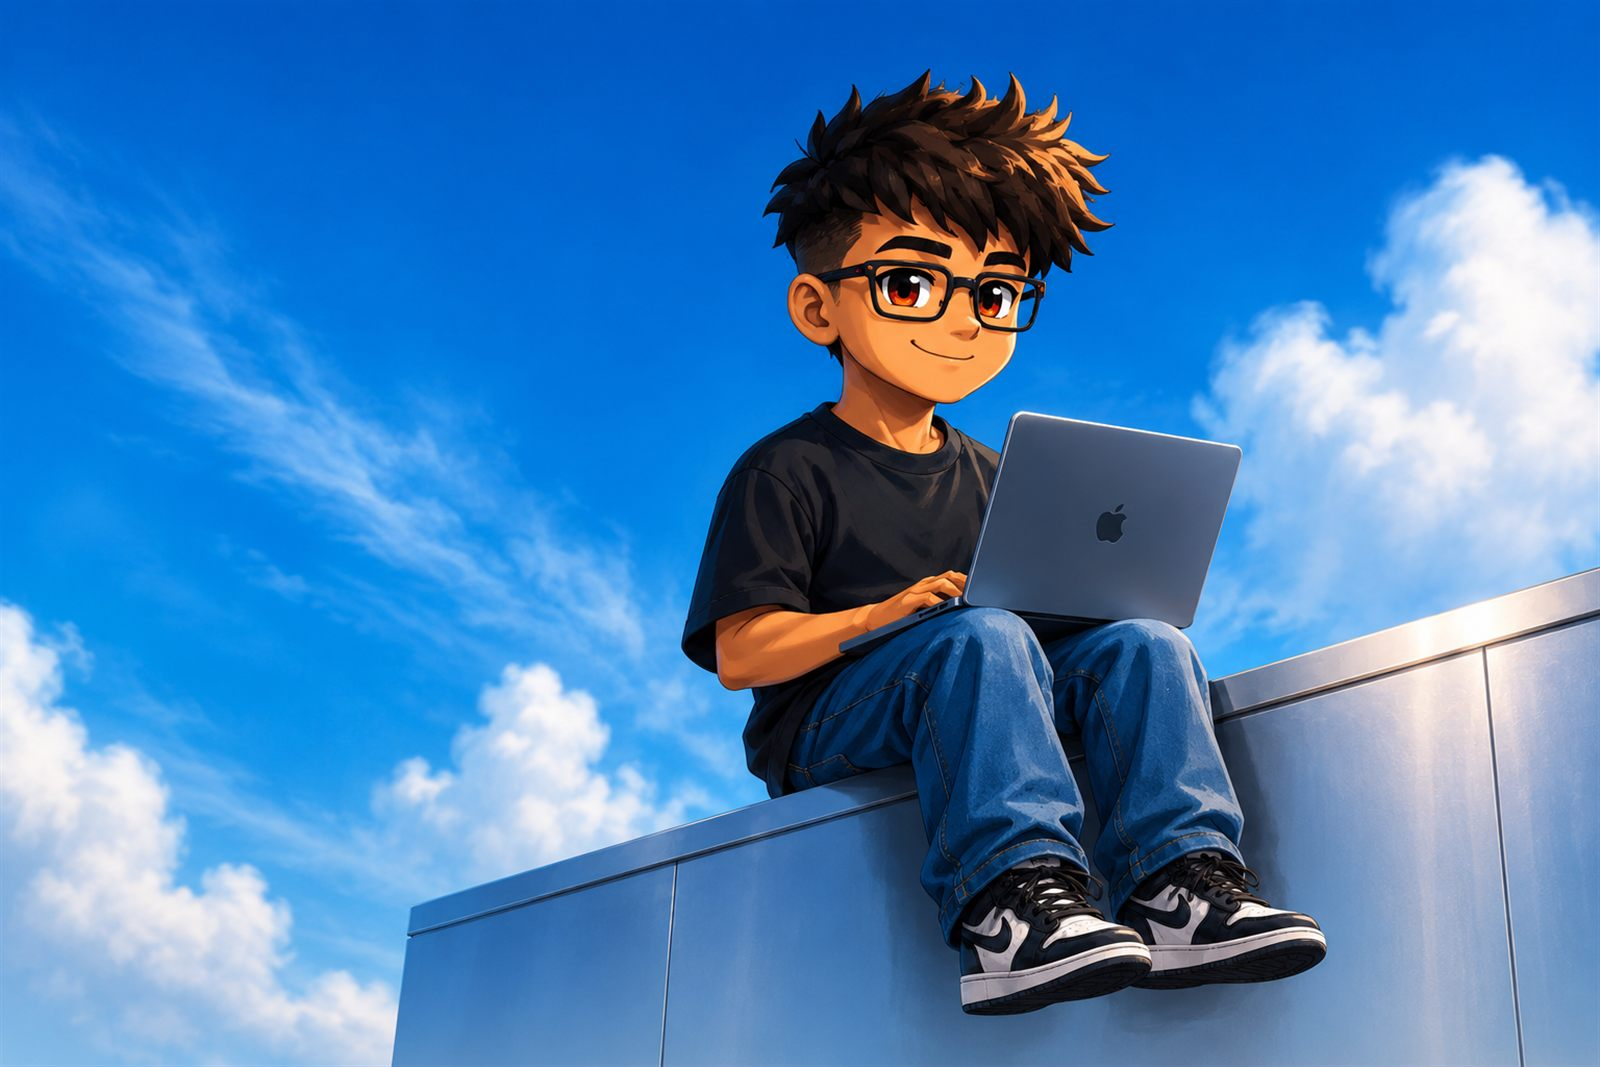
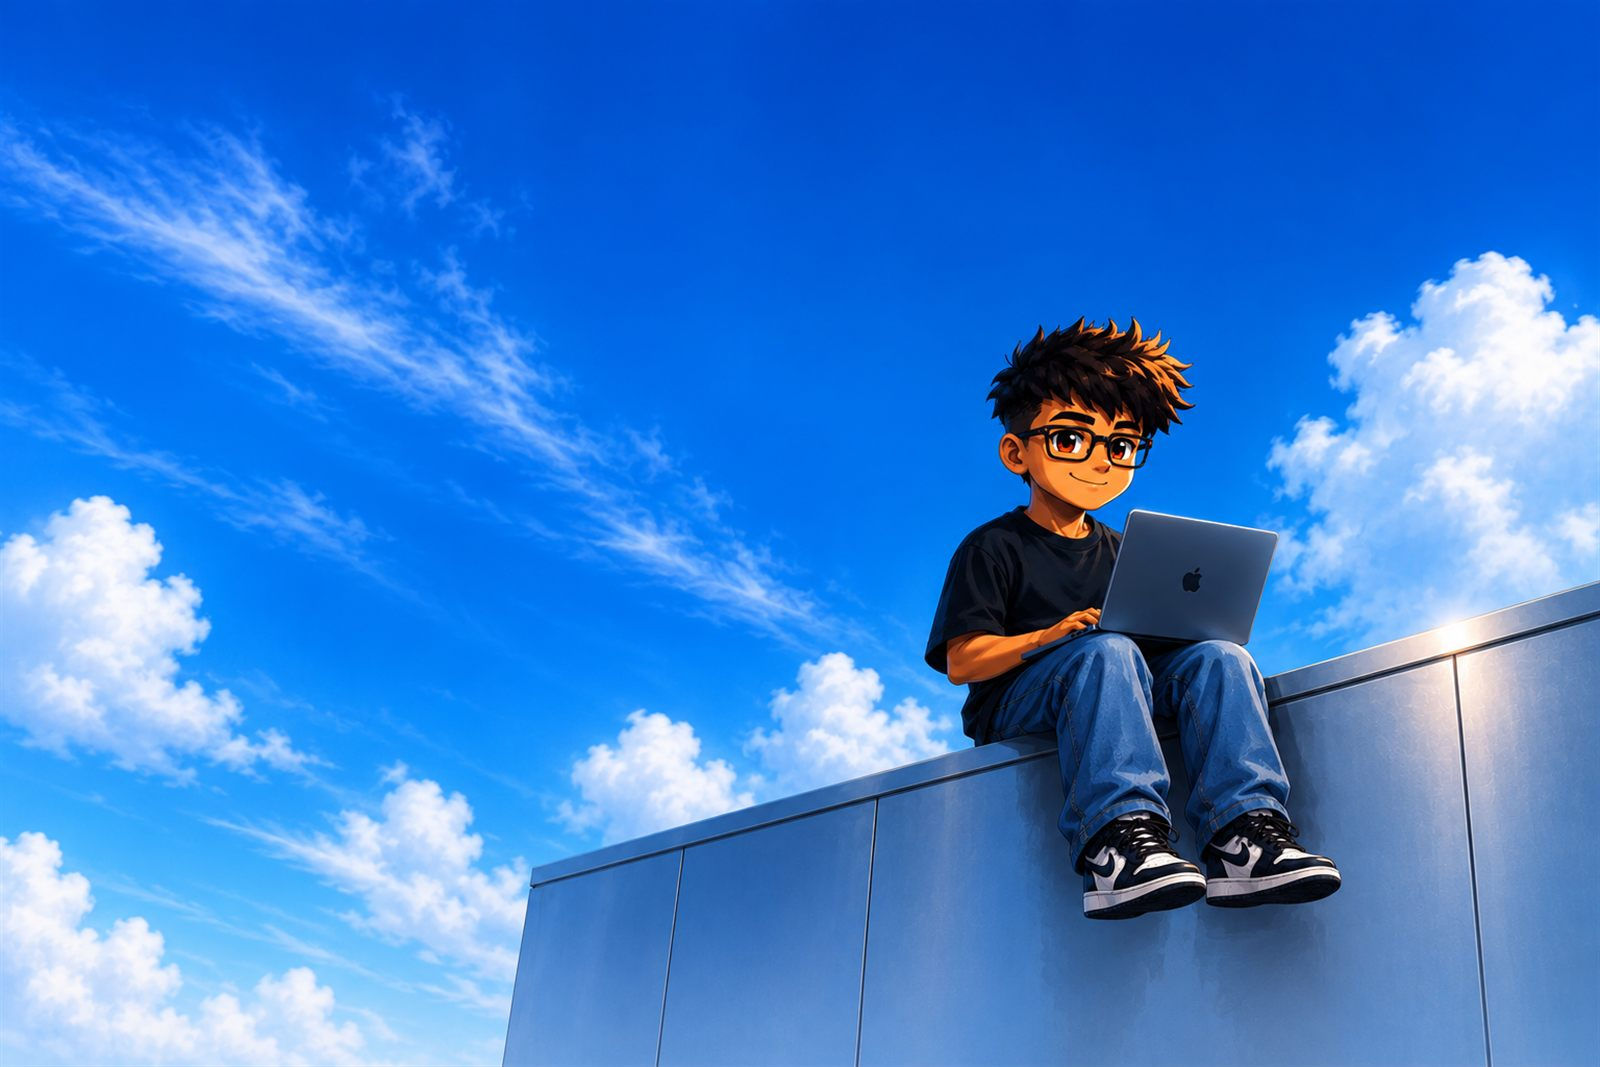
New hero artwork, add WasteWise project, link founder ventures
- Hero background replaced with right-composed illustration (143 KB optimized)
- WasteWise IoT food-waste platform added as project 02 (waste-wise-psi.vercel.app)
- Experience company names now link out: PresentIQ, Webro Studios, Theposterzz
- Projects stat bumped to 9+

diff --git a/src/components/Experience.tsx b/src/components/Experience.tsx
@@ -6,26 +6,31 @@ const experiences = [
   {
     title: "Founder & CEO",
     company: "PresentIQ",
+    url: "https://present-iq1.vercel.app/",
     description: "Building PresentIQ — a role-based attendance management SaaS, funded and incubated by CTII, Dibrugarh University.",
   },
   {
     title: "Founder & CEO",
     company: "Webro Studios",
+    url: "https://www.webrostudios.space/",
     description: "Running a web development agency, building websites and digital experiences for clients.",
   },
   {
     title: "Founder & CEO",
     company: "Theposterzz",
+    url: "https://theposterzz.in/",
     description: "Leading a creative branding initiative, designing visual identities for individuals and student communities.",
   },
   {
     title: "Freelance Web & Design Work",
     company: "Self-Employed",
+    url: null,
     description: "Building websites and creating design assets for various clients and personal projects.",
   },
   {
     title: "Student Web Developer",
     company: "Independent",
+    url: null,
     description: "Continuously learning and building projects to strengthen web development skills.",
   },
 ];
@@ -58,9 +63,20 @@ const Experience = () => {
               animate={isInView ? { opacity: 1, y: 0 } : {}}
               transition={{ delay: 0.2 + index * 0.12 }}
             >
-              <span className="font-mono text-xs uppercase tracking-[0.2em] text-muted-foreground md:col-span-3 pt-1">
-                {exp.company}
-              </span>
+              {exp.url ? (
+                <a
+                  href={exp.url}
+                  target="_blank"
+                  rel="noopener noreferrer"
+                  className="font-mono text-xs uppercase tracking-[0.2em] text-muted-foreground hover:text-primary underline-offset-4 hover:underline transition-colors md:col-span-3 pt-1 self-start"
+                >
+                  {exp.company} ↗
+                </a>
+              ) : (
+                <span className="font-mono text-xs uppercase tracking-[0.2em] text-muted-foreground md:col-span-3 pt-1">
+                  {exp.company}
+                </span>
+              )}
               <div className="md:col-span-9">
                 <h3 className="text-xl md:text-2xl font-bold mb-2">{exp.title}</h3>
                 <p className="text-muted-foreground leading-relaxed max-w-xl">

diff --git a/src/components/Skills.tsx b/src/components/Skills.tsx
@@ -71,10 +71,10 @@ const CountUp = ({ to, suffix, started }: { to: number; suffix: string; started:
 
 const stats = [
   {
-    to: 8,
+    to: 9,
     suffix: "+",
     title: "Projects shipped",
-    sub: "from landing pages to AI-powered web apps, all live in production",
+    sub: "from landing pages to AI and IoT-powered web apps, all live in production",
   },
   {
     to: 3,
